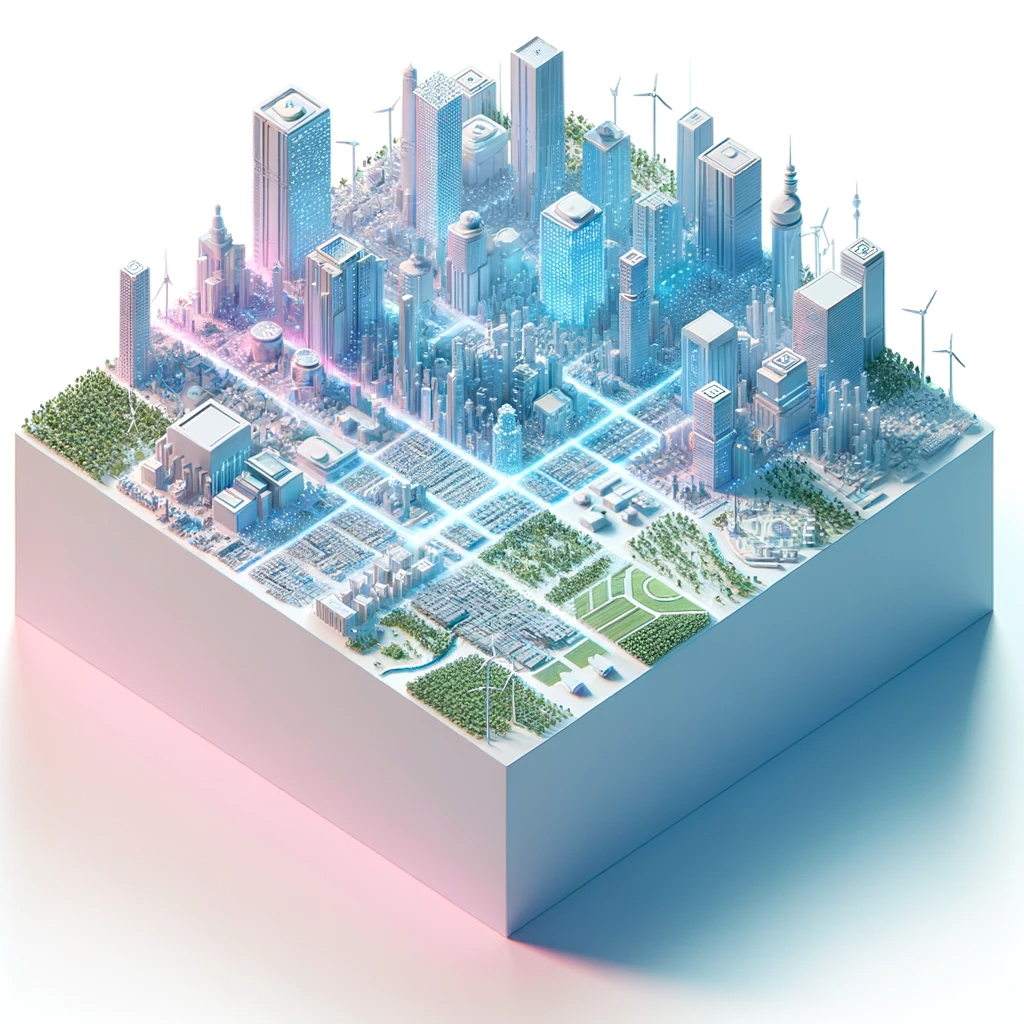
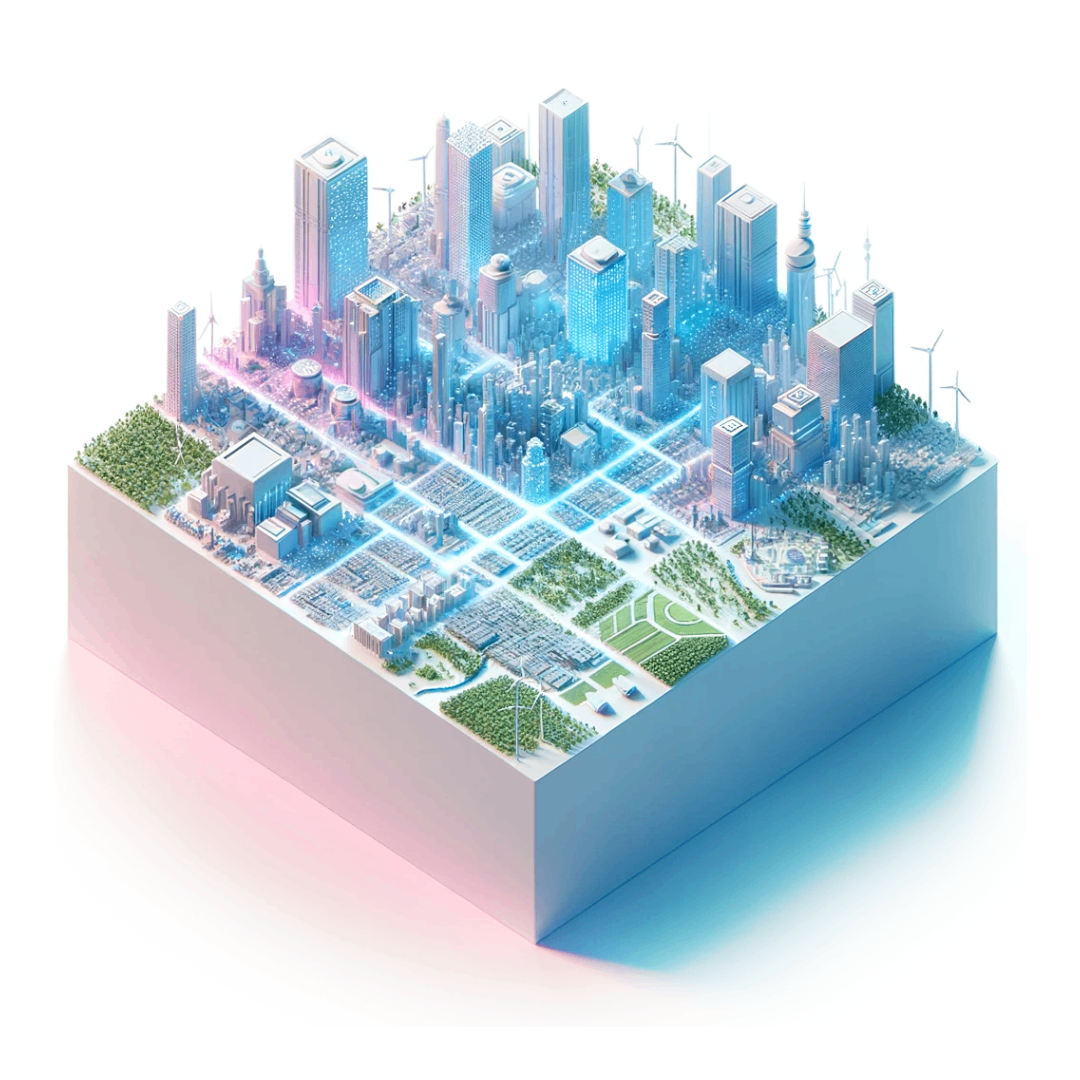
ok

diff --git a/content/home/index.md b/content/home/index.md
@@ -69,7 +69,7 @@ weight: 1
 
 <div class="mx-4 my-4">
 
-  ![Image](./img/node.png#md#mx-auto)
+  ![Image](./img/3node2.png#md#mx-auto)
 
  ### 3Nodes
   Cutting-edge hardware units, eco-friendly, self-sustaining, and versatile for diverse applications, enhancing security and data privacy
@@ -81,7 +81,7 @@ weight: 1
 
 <div class="mx-4 my-4">
 
-  ![Image](./img/zero.png#md#mx-auto)
+  ![Image](./img/zero1.png#md#mx-auto)
 
   #### Zero-OS
   Innovative OS for decentralized efficiency and security. Lightweight, secure, adaptable—pioneering the future of computing
@@ -124,7 +124,7 @@ weight: 1
 
 {% row(style="left" margin="withContainer" padding="bottom") %}
 
-![placeholder](./img/city6.png#mx-auto)
+![placeholder](./img/city66.png#mx-auto)
 
 |||
 
